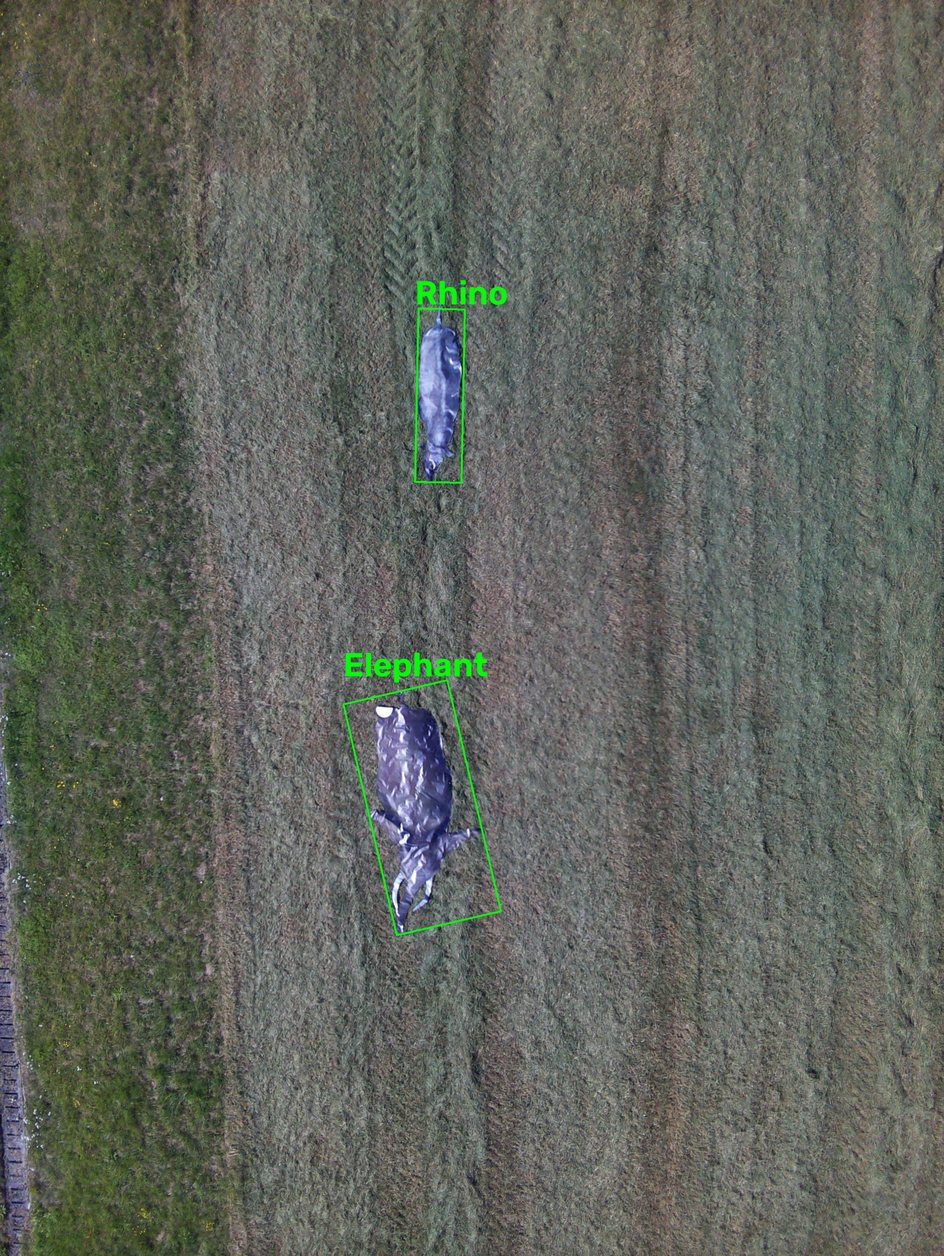
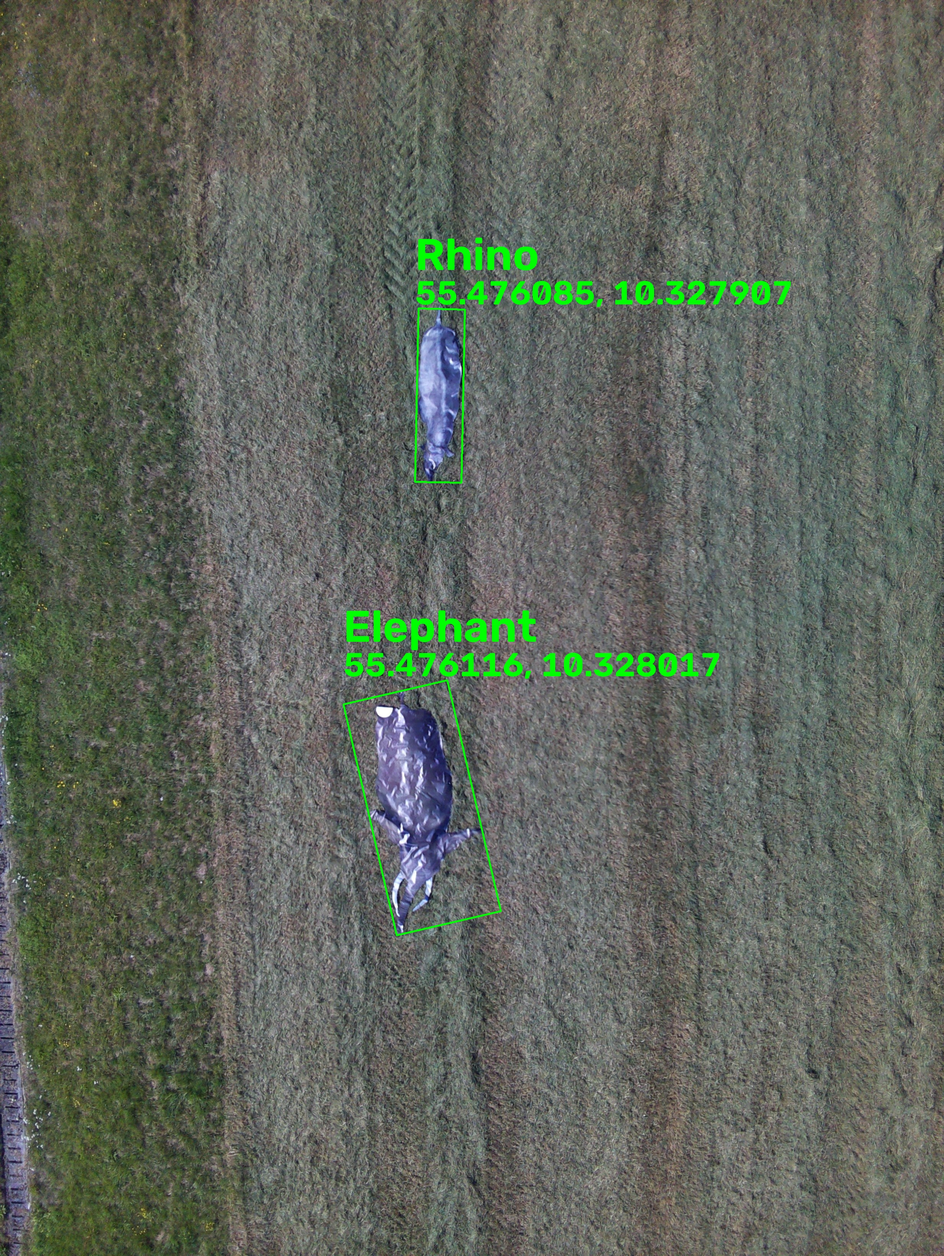
did something

Changed region(s): [[0.3438, 0.4665, 0.75, 0.5598], [0.4375, 0.1866, 0.8438, 0.2488]]

diff --git a/exercises/my_solutions/drone/vision.py b/exercises/my_solutions/drone/vision.py
@@ -148,13 +148,18 @@ def do_vision(image, path, index, gps_locations):
         aspect_ratio = rect[1][0] / rect[1][1] if rect[1][1] != 0 else float('inf')
         animal_type = "Elephant" if aspect_ratio < 1 else "Folded Zebra" if aspect_ratio < 2.5 else "Rhino"
 
-        label_pos = (int(box[:, 0].min()), max(int(box[:, 1].min()) - 10, 0))
-        cv2.putText(annotated2, animal_type, label_pos, cv2.FONT_HERSHEY_SIMPLEX, 3, (0, 255, 0), 6)
-
         drone_lat, drone_lon, alt, heading = gps_locations[index]
         cx, cy = rect[0]
         animal_lat, animal_lon = estimate_animal_latlon(cx, cy, img_w, img_h, drone_lat, drone_lon, alt, heading)
         print(f"{animal_type} seen at location: lat={animal_lat:.7f}, lon={animal_lon:.7f}, alt={alt}, heading={heading}")
+
+        latlon_text = f"{animal_lat:.6f}, {animal_lon:.6f}"
+        latlon_width = cv2.getTextSize(latlon_text, cv2.FONT_HERSHEY_SIMPLEX, 3, 6)[0][0]
+        label_x = min(int(box[:, 0].min()), img_w - latlon_width - 10)
+        label_pos = (label_x, max(int(box[:, 1].min()) - 100, 0))
+        cv2.putText(annotated2, animal_type, label_pos, cv2.FONT_HERSHEY_SIMPLEX, 4, (0, 255, 0), 8)
+        latlon_pos = (label_pos[0], label_pos[1] + 90)
+        cv2.putText(annotated2, latlon_text, latlon_pos, cv2.FONT_HERSHEY_SIMPLEX, 3, (0, 255, 0), 6)
         detections.append({
             "type": animal_type,
             "lat": animal_lat,
